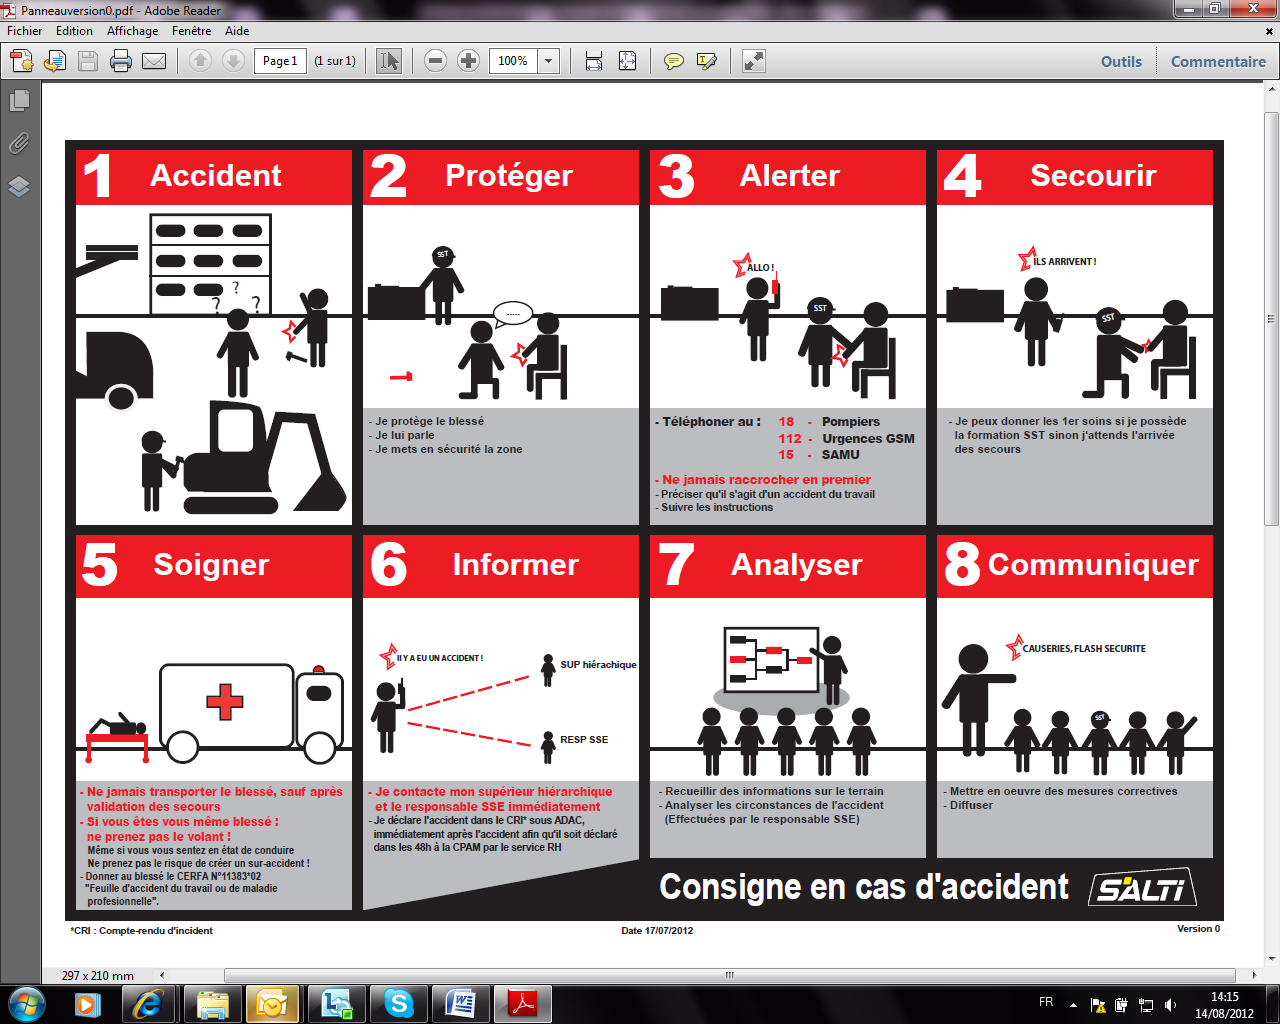
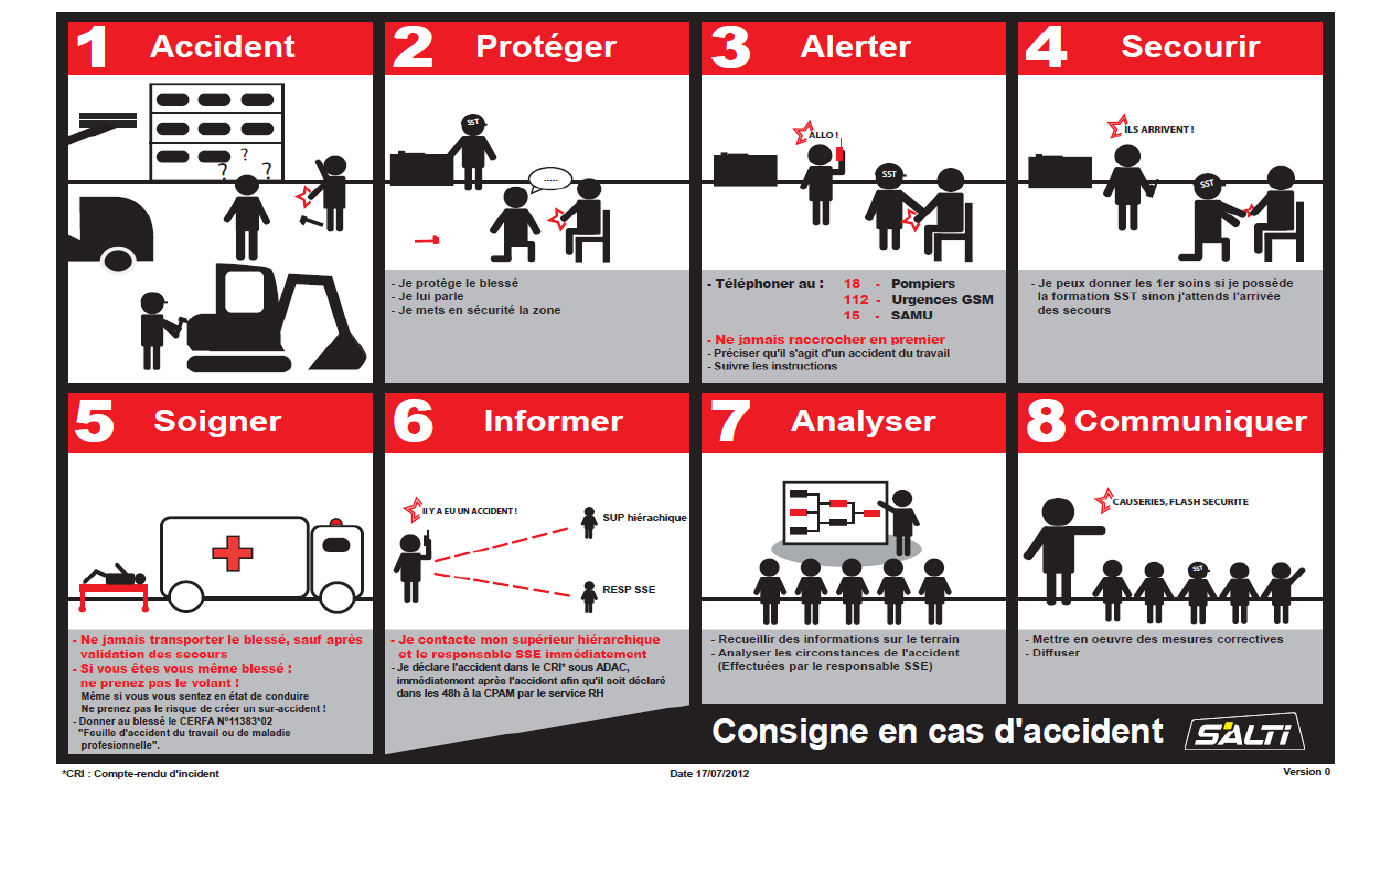
Fix rendu PDF : image consigne accident propre + bandeau EPI lisible
1. Image 'Consigne en cas d'accident' :
   Remplace l'image extraite (qui était une capture d'écran avec
   barre Adobe Reader) par un crop direct du rendu HD de la page 2
   du PDF officiel. Plus de cadre/UI parasite.

2. Bandeau EPI :
   - Icônes : hauteur forcée via attribut HTML 'height=60' (mPDF
     ignore le CSS pour les images)
   - Cellules dimensionnées en mm (table-layout:fixed)
   - Ligne 'Obligatoire' clairement visible avec son label
   - 'X' bien centrés sous les EPI cochés

diff --git a/resources/views/pdf/pdp.blade.php b/resources/views/pdf/pdp.blade.php
@@ -76,17 +76,29 @@
         color: #000;
     }
 
-    /* EPI table */
+    /* EPI table — unités mm pour rendu mPDF stable */
     .epi-table td {
         text-align: center;
         border: 1px solid #000;
-        padding: 4px;
+        padding: 2mm 1mm;
         vertical-align: middle;
     }
-    .epi-table img { max-height: 35px; }
-    .epi-table .obligatoire-label {
+    .epi-table .icon-row td { height: 18mm; }
+    .epi-table .icon-row img {
+        height: 16mm;
+        width: auto;
+    }
+    .epi-table .obligatoire-row td {
+        height: 8mm;
+        padding: 2mm;
+        font-size: 11pt;
         font-weight: bold;
+    }
+    .epi-table .obligatoire-label {
         background: #fafafa;
+        text-align: left;
+        padding-left: 4mm;
+        font-size: 10pt;
     }
 
     /* Tableau des risques */
@@ -314,20 +326,27 @@
     </p>
 
     {{-- Bandeau EPI --}}
-    <table class="bordered epi-table" style="margin-top:8px">
-        <tr>
-            <td><img src="{{ $assets }}arrow-obligatoire.png"></td>
-            <td><img src="{{ $assets }}epi-ouvrier.png"></td>
-            <td><img src="{{ $assets }}epi-chaussures.png"></td>
-            <td><img src="{{ $assets }}epi-gants.png"></td>
-            <td><img src="{{ $assets }}epi-casque.png"></td>
-            <td><img src="{{ $assets }}epi-lunettes.png"></td>
-            <td><img src="{{ $assets }}epi-masque.png"></td>
-            <td><img src="{{ $assets }}epi-auditives.png"></td>
-            <td><img src="{{ $assets }}epi-gilet-hv.png"></td>
-            <td><img src="{{ $assets }}epi-harnais.jpg"></td>
+    @php $iconH = 60; /* hauteur des pictos EPI en px (rendu mPDF) */ @endphp
+    <table class="bordered epi-table" style="margin-top:8px; table-layout:fixed">
+        <colgroup>
+            <col style="width:14%"> {{-- Flèche + label Obligatoire --}}
+            <col style="width:9.5%"><col style="width:9.5%"><col style="width:9.5%">
+            <col style="width:9.5%"><col style="width:9.5%"><col style="width:9.5%">
+            <col style="width:9.5%"><col style="width:9.5%"><col style="width:9.5%">
+        </colgroup>
+        <tr class="icon-row">
+            <td><img src="{{ $assets }}arrow-obligatoire.png" height="{{ $iconH }}"></td>
+            <td><img src="{{ $assets }}epi-ouvrier.png" height="{{ $iconH }}"></td>
+            <td><img src="{{ $assets }}epi-chaussures.png" height="{{ $iconH }}"></td>
+            <td><img src="{{ $assets }}epi-gants.png" height="{{ $iconH }}"></td>
+            <td><img src="{{ $assets }}epi-casque.png" height="{{ $iconH }}"></td>
+            <td><img src="{{ $assets }}epi-lunettes.png" height="{{ $iconH }}"></td>
+            <td><img src="{{ $assets }}epi-masque.png" height="{{ $iconH }}"></td>
+            <td><img src="{{ $assets }}epi-auditives.png" height="{{ $iconH }}"></td>
+            <td><img src="{{ $assets }}epi-gilet-hv.png" height="{{ $iconH }}"></td>
+            <td><img src="{{ $assets }}epi-harnais.jpg" height="{{ $iconH }}"></td>
         </tr>
-        <tr>
+        <tr class="obligatoire-row">
             <td class="obligatoire-label">Obligatoire</td>
             <td></td>
             <td>{!! ($epi['chaussures'] ?? false) ? '<strong>X</strong>' : '' !!}</td>